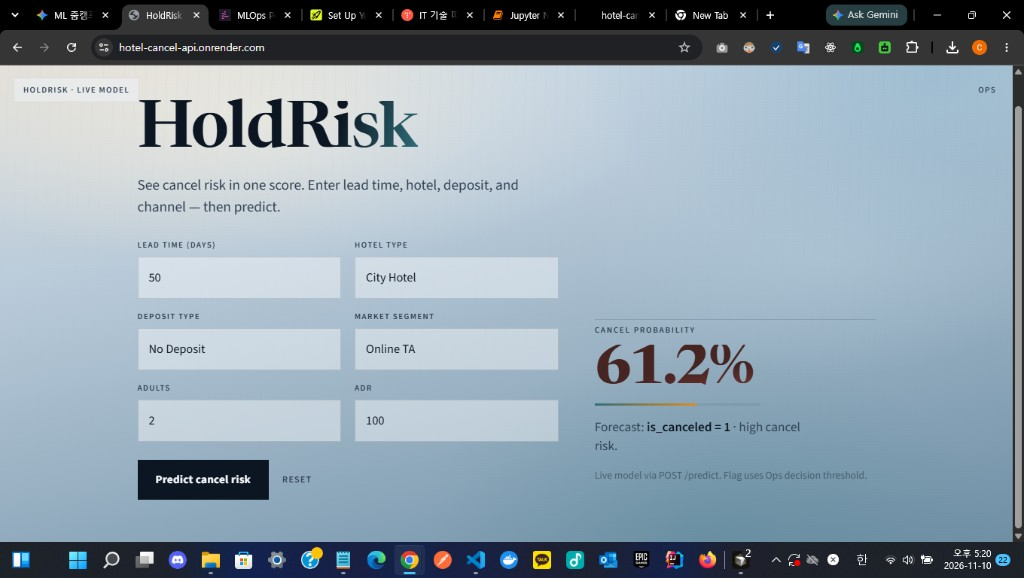
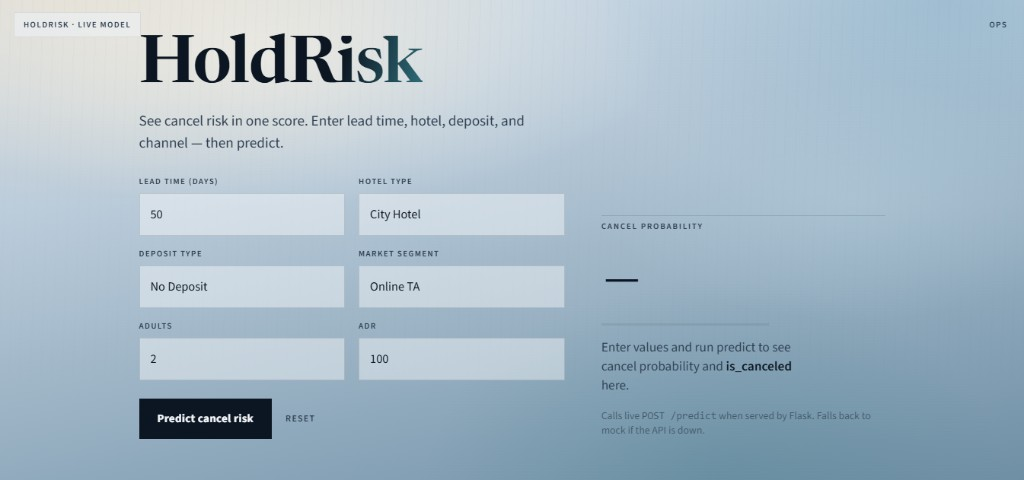
Trim the README header and replace the screenshots.
Drop the meta table and status block, keep the dataset citation in the problem, and fold the model facts into Architecture.

Changed region(s): [[0.0, 0.0, 1.0, 1.0], [0.5938, 0.4688, 0.6875, 0.5]]

diff --git a/README.md b/README.md
@@ -4,20 +4,11 @@
 
 Built as a midterm project for [Machine Learning Zoomcamp 2026](https://github.com/DataTalksClub/machine-learning-zoomcamp).
 
-**Live app:** https://hotel-cancel-api.onrender.com  
-A push to `main` rebuilds that Render web service (Docker, free plan). There is no separate development URL.
-
-| | |
-|---|---|
-| Certificate name | Heeju Yang |
-| Deadline | 16–17 November 2026 (platform shows 16 Nov 2026) |
-| Dataset | [hotel-booking-demand](https://www.kaggle.com/datasets/jessemostipak/hotel-booking-demand) (Antonio, Almeida, and Nunes) |
-| Repo | https://github.com/zakard114/hotel-booking-cancellation |
+**Live app:** https://hotel-cancel-api.onrender.com
 
 ## Table of contents
 
 - [Problem](#problem)
-- [Status](#status)
 - [How to run](#how-to-run)
 - [Cloud deployment](#cloud-deployment)
 - [Architecture](#architecture)
@@ -34,27 +25,9 @@ Hotels take reservations that guests may cancel. A late cancel leaves an empty r
 
 The product is the **cancel-risk service**. It is not a booking website. A desk form sends the booking fields to `POST /predict`. The same process serves an in-app Ops board (request rate, latency, and the audit stream). That board is not a separate Grafana server.
 
-The target is binary `is_canceled` on the public hotel-booking-demand table. Training compares logistic regression, a random forest, and XGBoost on one seeded split, then exports the chosen pipeline to `src/train.py` and serves it from Docker.
+The target is binary `is_canceled` on [hotel-booking-demand](https://www.kaggle.com/datasets/jessemostipak/hotel-booking-demand) (Antonio, Almeida, and Nunes). Training compares logistic regression, a random forest, and XGBoost on one seeded split, then exports the chosen pipeline to `src/train.py` and serves it from Docker.
 
 Out of scope: car price, telco churn, credit risk, and clothing datasets.
-
-[↑ Contents](#table-of-contents)
-
----
-
-## Status
-
-Build gates **1–9 are done**. The public service is live.
-
-| | |
-|--|--|
-| Model | XGBoost, validation ROC-AUC about 0.95 |
-| Artifact | `models/model.bin` (DictVectorizer + booster) |
-| Local API | Flask on port 9696 |
-| Cloud | https://hotel-cancel-api.onrender.com |
-| Smoke (2026-11-10) | `cancel_probability≈0.6116`, `is_canceled=true` |
-
-Peer reviews are outside the build gates and stay at 0 until three reviews exist.
 
 [↑ Contents](#table-of-contents)
 
@@ -132,10 +105,10 @@ Deploy notes: [`deploy/README.md`](deploy/README.md). Blueprint: [`render.yaml`]
 ## Architecture
 
 1. `scripts/phase1_eda.py` and `notebooks/notebook.ipynb` load the table, record missing values and the target rate (~37% canceled), mark leakage columns, and split with seed 42. No model is fit there.
-2. `scripts/phase2_models.py` compares logistic regression, a random forest, and XGBoost on the same split. XGBoost wins on validation ROC-AUC.
-3. `src/train.py` refits that pipeline and writes `models/model.bin` as `(DictVectorizer, XGBoost)`.
-4. `src/predict.py` loads the artifact and serves the desk, `POST /predict`, and the in-app Ops board.
-5. `Dockerfile` runs that process. Render builds the same image from `main`.
+2. `scripts/phase2_models.py` compares logistic regression, a random forest, and XGBoost on the same split. XGBoost wins, with validation ROC-AUC about 0.95.
+3. `src/train.py` refits that pipeline and writes `models/model.bin` (DictVectorizer + booster).
+4. `src/predict.py` loads that file and serves the desk, `POST /predict`, and the in-app Ops board with Flask on port 9696.
+5. `Dockerfile` runs that process. The live service returned `cancel_probability≈0.6116`, `is_canceled=true` on 2026-11-10.
 
 Leakage columns left out of training: `reservation_status`, `reservation_status_date`.
 
@@ -164,13 +137,13 @@ _planning/       roadmap, checkpoints, phase notes
 
 ## Screenshots
 
-Desk after a live predict (City Hotel, lead time 50, no deposit, Online TA):
+Desk before a prediction:
 
-![HoldRisk desk showing a 61.2 percent cancel probability](docs/images/holdrisk-desk.png)
+![HoldRisk desk with the booking form and an empty cancel probability](docs/images/holdrisk-desk.png)
 
-Ops Grafana tab on the same host. Counts stay at zero until this process has handled requests:
+Ops Inspector on the same host, before any score:
 
-![HoldRisk Ops board with request, latency, and threshold cards](docs/images/holdrisk-ops.png)
+![HoldRisk Ops inspector on a dark panel, no prediction yet](docs/images/holdrisk-ops.png)
 
 [↑ Contents](#table-of-contents)
 
